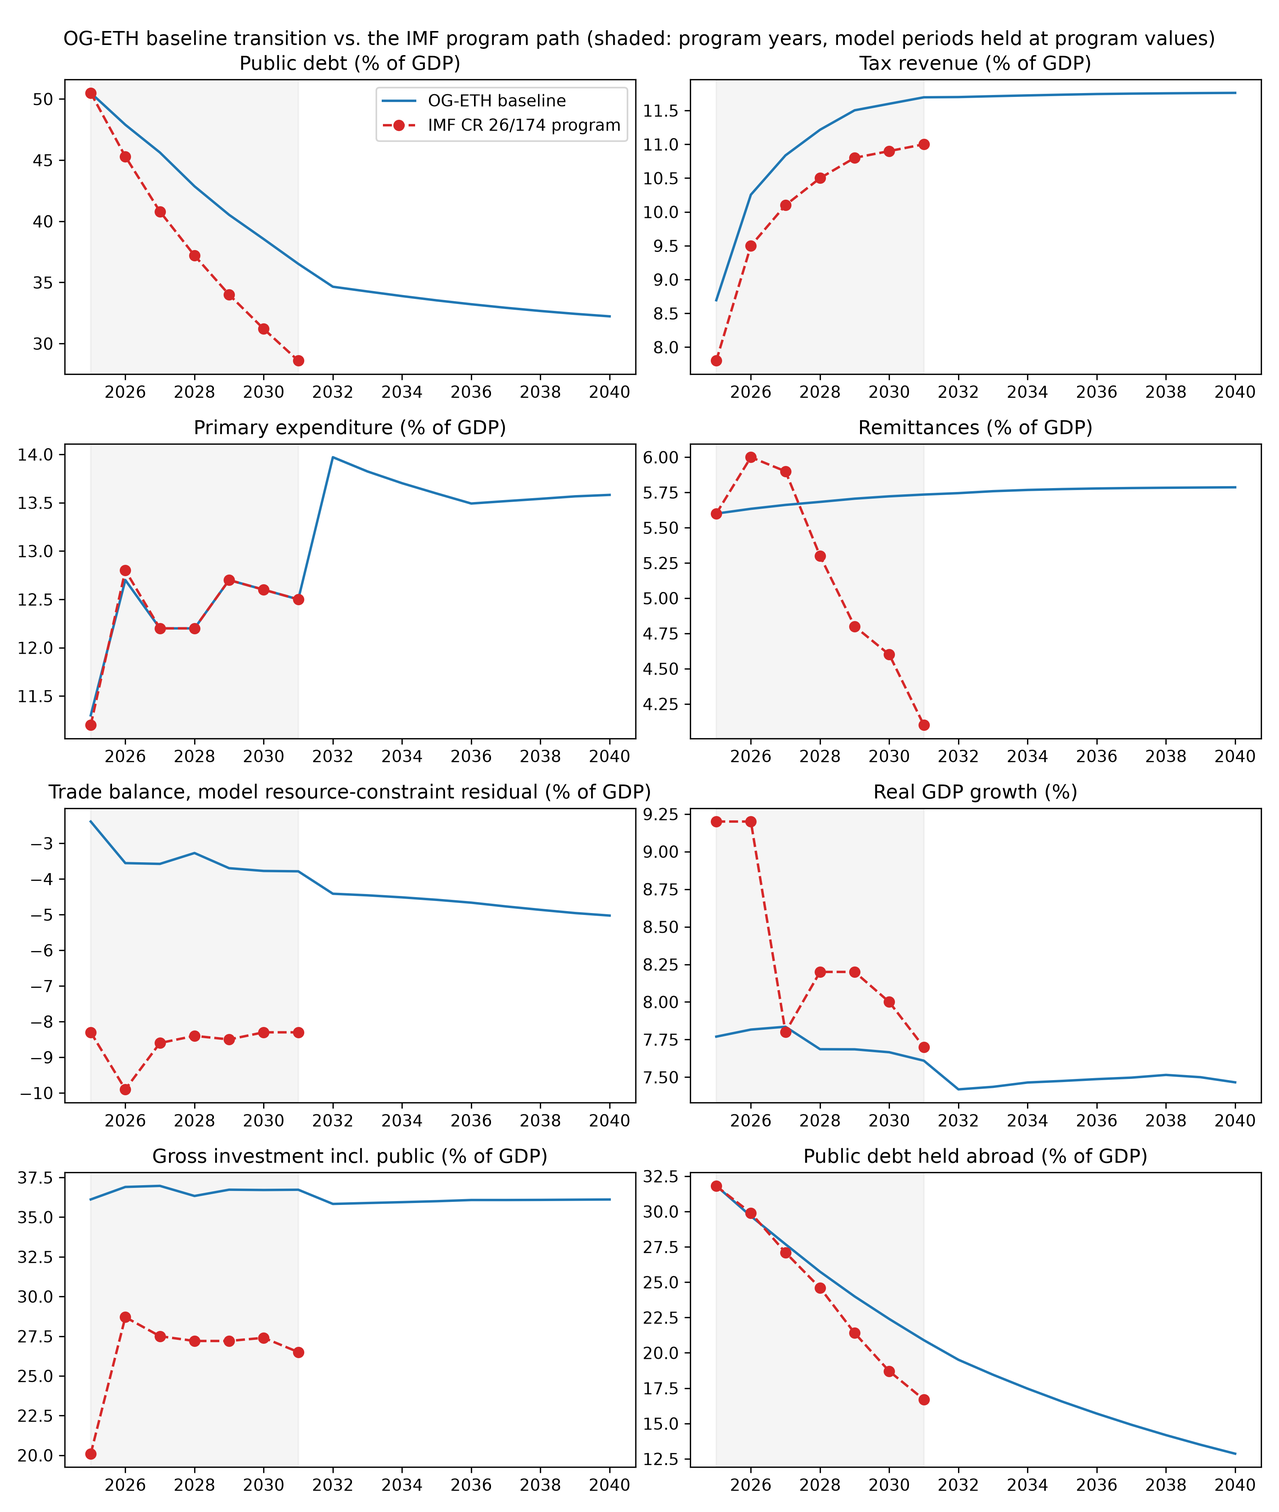
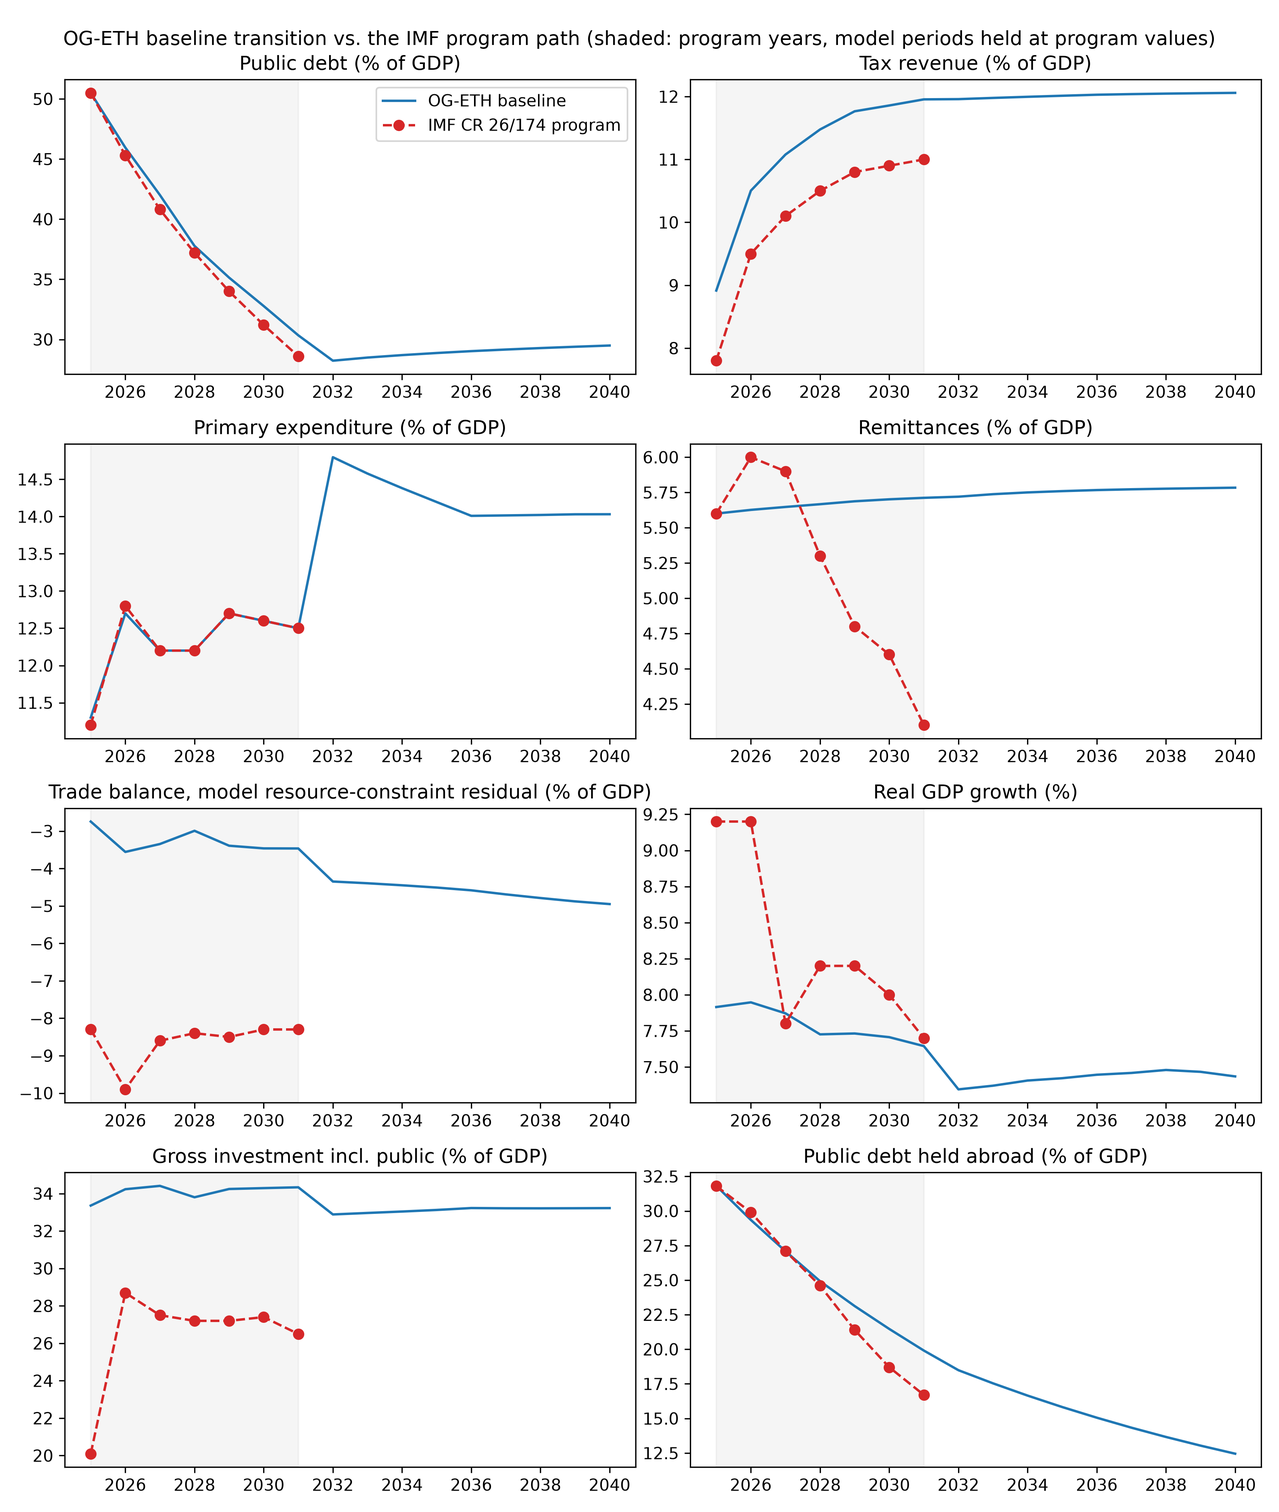
Refresh the validation table and program comparison to the final calibrated run

diff --git a/docs/book/content/calibration/macro.md b/docs/book/content/calibration/macro.md
@@ -150,29 +150,30 @@ Most of the parameters on this page are only weakly identified from the data on 
 
 | Steady-state moment | OG-ETH baseline | Ethiopia data | Data source |
 |:---|:---:|:---:|:---|
-| Government debt $D/Y$ | 0.30 | 0.30 (long-run target); 0.505 (FY2024/25); 0.286 (FY2030/31) | IMF CR 26/174, Table 1 |
-| Foreign-held debt share $D_f/D$ | 0.15 | 0.63 (FY2024/25), falling to 0.58 by FY2030/31 | IMF CR 26/174, Table 1 |
-| Real effective rate on public debt $r_{gov}$ | 0.020 | negative through FY2030/31 (5.2% nominal on the stock vs 8.6% deflator); ~0.8% on new external commitments | IMF CR 26/174; MoF Bulletin 56 |
-| Tax revenue $T/Y$ | 0.118 | 0.110 (FY2030/31 program); 0.078 (FY2024/25) | IMF CR 26/174, Table 2b |
+| Government debt $D/Y$ | 0.30; path 50.5 → 30.3% by FY2030/31 | 0.30 (long-run target); 50.5 → 28.6% (FY2024/25 → FY2030/31) | IMF CR 26/174, Table 1 |
+| Foreign-held debt share $D_f/D$ | 0.15; external debt 31.8 → 19.9% of GDP by FY2030/31 | 0.63 (FY2024/25); external debt 31.8 → 16.7% | IMF CR 26/174, Table 1 |
+| Real effective rate on public debt $r_{gov}$ | −3.2 to −1.2% through FY2030/31; 2.0% long run | negative through FY2030/31 (5.2% nominal on the stock vs 8.6% deflator); ~0.8% on new external commitments | IMF CR 26/174; MoF Bulletin 56 |
+| Tax revenue $T/Y$ | 0.121; path 8.9 → 12.0% | 0.110 (FY2030/31 program); 7.8 → 11.0% | IMF CR 26/174, Table 2b |
 | Personal income tax / $Y$ | 0.014 | 0.014 (FY2024/25) | IMF SIP 2025/108 |
-| Corporate income tax / $Y$ | 0.029 | 0.017 (FY2024/25); program allocates a third of revenue gains here | IMF SIP 2025/108; assumption |
-| Consumption taxes / $Y$ | 0.058 | 0.039 (FY2024/25) plus two thirds of the program's revenue gains | IMF CR 26/174; assumption |
-| Government consumption $G/Y$ | 0.070 (closure) | 0.059 (FY2030/31, recurrent net of interest and cash transfers) | IMF CR 26/174, Table 2b |
+| Corporate income tax / $Y$ | 0.029 | 0.017 (FY2024/25); a third of the program's revenue gains allocated here | IMF SIP 2025/108; assumption |
+| Consumption taxes / $Y$ | 0.060 | 0.039 (FY2024/25) plus two thirds of the program's revenue gains | IMF CR 26/174; assumption |
+| Government consumption $G/Y$ | 0.073 (closure) | 0.059 (FY2030/31, recurrent net of interest and cash transfers) | IMF CR 26/174, Table 2b |
 | Cash transfers $TR/Y$ | 0.015 | 0.015 (FY2026/27 onward) | IMF CR 26/174 |
 | Public investment $I_g/Y$ | 0.051 | 0.051 (FY2030/31) | IMF CR 26/174, Table 2b |
 | Remittances $RM/Y$ | 0.056 | 0.056 (FY2024/25); program projects 0.041 by FY2030/31 | IMF CR 26/174, Table 4b |
-| Foreign-owned capital $K_f/Y$ | 0.37 | ~0.24 (FDI stock) | UNCTAD / WB |
-| Foreign-owned capital share $K_f/K$ | 0.14 | low (near-closed account) | Chinn-Ito; BoP IIP |
-| Capital-output $K/Y$ | 2.6 | ~2.2 | Penn World Table |
-| Household wealth $B/Y$ | 2.5 (steady state); 2.08 (initial) | 2.15 (K/Y less FDI stock plus domestic debt) | PWT, UNCTAD, IMF |
-| Total investment $(I+I_g)/Y$ | 0.36 | 0.20 (FY2024/25); 0.27 (program, FY2030/31) | IMF CR 26/174, Table 1 |
-| Private consumption $C/Y$ | 0.63 | 0.81 (FY2024/25; BGP ~0.65–0.70) | WDI `NE.CON.PRVT.ZS` |
-| Trade balance $NX/Y$ | −0.058 | −0.083 (goods and services, FY2024/25 and FY2030/31) | IMF CR 26/174, Table 4b |
-| Real return on capital $r$ | 0.058 | high (capital-scarce) | model-implied MPK |
+| Foreign-owned capital $K_f/Y$ | 0.20 (0.22 initially) | ~0.24 (FDI stock) | UNCTAD / WB |
+| Foreign-owned capital share $K_f/K$ | 0.08 | low (near-closed account) | Chinn-Ito; BoP IIP |
+| Capital-output $K/Y$ | 2.4 (2.1 initially) | ~2.2 | Penn World Table |
+| Household wealth $B/Y$ | 2.4 (steady state); 2.08 (initial) | 2.15 (K/Y less FDI stock plus domestic debt) | PWT, UNCTAD, IMF |
+| Total investment $(I+I_g)/Y$ | 0.33 | 0.20 (FY2024/25); 0.27 (program, FY2030/31) | IMF CR 26/174, Table 1 |
+| Private consumption $C/Y$ | 0.65 | 0.81 (FY2024/25; BGP ~0.65–0.70) | WDI `NE.CON.PRVT.ZS` |
+| Trade balance $NX/Y$ | −0.059 (−0.03 to −0.035 along the program) | −0.083 (goods and services, FY2024/25 and FY2030/31) | IMF CR 26/174, Table 4b |
+| Real return on capital $r$ | 0.068 | high (capital-scarce); FDI return in Africa 6.3% | model-implied MPK; UNCTAD |
+| Real GDP growth | 7.9 → 7.6% over the program | 9.2 → 7.7% | IMF CR 26/174, Table 1 |
 
-**What matches.**  The fiscal block is now internally consistent and on the data: revenue by instrument, the spending ratios, transfers, public investment, remittances and the debt target all sit on their sources, and the transition ({numref}`CalibVsProgram`) reproduces the program's primary expenditure exactly, its tax revenue to within a point of GDP (the model's FY2024/25 base is 0.9 points above the IMF's tax line, and follows the same increments), its external debt ratio to within a few points, and real growth of 7.6–7.8 percent against the program's 7.7–9.2.  The remittance share holds at 5.6–5.7 percent along the path.
+**What matches.**  The fiscal block is internally consistent and on the data.  The transition ({numref}`CalibVsProgram`) reproduces the program's primary expenditure exactly, its tax revenue to within a point of GDP (the model's FY2024/25 base is a point above the IMF's tax line and follows the same increments), its external debt ratio to within three points, and — with the sovereign rate on the program-implied negative real rates — **its debt ratio to within two points of GDP in every program year**, landing at 30.3 percent in FY2030/31 against 28.6, and at the 30 percent target thereafter without a jump.  Real growth runs 7.6–7.9 percent against the program's 7.7–9.2; the remittance share holds at 5.6–5.7 percent.  The capital block sits on its anchors: the capital-output ratio starts at 2.1 and settles at 2.4 against the Penn World Table's 2.2, the foreign-owned capital stock at 0.20–0.22 of GDP against the 0.24 FDI stock, and household wealth starts at the 2.15 the data imply.
 
-**What does not, and why.**  Three gaps remain, each understood.  *Debt* falls to 36.5 rather than 28.6 percent of GDP by FY2030/31 and reaches the 30 percent target only around 2055: OG-Core floors the sovereign rate at zero, so the negative real effective rate through which inflation and concessional terms erode Ethiopia's debt cannot be represented, and with a primary balance near zero the ratio can fall only as fast as real growth dilutes it.  *Capital* is still too abundant: with $\beta$ lowered to 0.92 the capital-output ratio falls from 2.9 to 2.6 and total investment from 41 to 36 percent of GDP, but the Penn World Table's 2.2 and the program's 27 percent are not reached because foreign capital enters at the world rate as domestic saving falls — the foreign-owned share of capital rises to 14 percent, above what Ethiopia's investment position supports.  The over-accumulation of capital is a known trait of the OG-Core saving block across the country models, and pushing patience further would trade one miss for another.  *The trade deficit* is 3–4 percent of GDP along the transition and 5.8 percent in the steady state against 8.3 percent in the data, the mirror image of the same fact: the data's deficit is financed by FDI inflows of about 3 percent of GDP a year on top of remittances and grants, while the model's foreign capital inflow is smaller, and part of the remittance and grant inflow is saved rather than spent on imports.  The remaining rows are where they were: the model's long-run consumption share sits between Ethiopia's crisis-depressed current value and a balanced-growth level, and the foreign-held debt share converges from the initial 0.63 toward $\zeta_D$.
+**What does not, and why.**  Two gaps remain.  *Investment* is 33–34 percent of GDP against the program's 27: in the steady state investment must replace depreciation and equip growth, $(g+\delta)K/Y \approx 0.13 \times 2.4 = 0.31$, so with the capital-output ratio already at the data the remaining difference is the model's 8 percent growth and 5 percent depreciation applied to that stock — the data's 27 percent at a similar capital-output ratio implies a lower effective depreciation or slower capital deepening than a balanced growth path allows.  *The trade deficit* is 3–3.5 percent of GDP along the program and 5.9 percent in the steady state against 8.3 percent in the data.  The model's deficit is what remittances, grants and foreign capital inflows finance net of factor payments abroad; the data's is also financed by about 3 percent of GDP a year of FDI and by official borrowing, and Ethiopia's foreign capital inflow in the model is smaller because the foreign-owned stock is already near its long-run level.  Neither gap is a parameter away: they follow from the single-capital-good, balanced-growth structure of the model, and are reported here as its limits rather than calibrated around.  The remaining rows are where they were: the long-run consumption share sits between Ethiopia's crisis-depressed current value and a balanced-growth level, and the foreign-held debt share converges from the initial 0.63 toward $\zeta_D$.
 
 (SecLWI_footnotes)=
 ## Footnotes

diff --git a/CHANGELOG.md b/CHANGELOG.md
@@ -16,7 +16,7 @@ and this project adheres to [Semantic Versioning](https://semver.org/spec/v2.0.0
 * Froze the `r_gov_*` parameters in the live `update_from_api` path (they are no longer returned by `get_macro_params`): the committed `r_gov_shift` is the re-centered value, and returning the raw Li-Magud-Werner shift would silently un-center the premium and move the steady state. The Li-Magud-Werner derivation plus the re-centering arithmetic is preserved as the reproducible `macro_params.estimate_r_gov` helper.
 * Retuned `initial_guess_r_SS` (0.0648 → 0.093) to the refreshed steady state.
 * Calibrated the transition path to the IMF program (Country Report 26/174, fifth ECF review, Tables 1, 2b and 4b) instead of holding FY2024/25 spending ratios fixed for twenty years. Previously the baseline ran a primary deficit of 5.6–6.1 percent of GDP for its first two decades (government consumption 5.8, transfers 4.0 and public investment 5.0 percent of GDP against 8.7 percent of revenue), debt climbed from 50 to 84 percent of GDP by year 10, and the closure rule later pushed government consumption below zero. The fiscal block now follows the program for FY2024/25–FY2030/31 (model periods 0–6) and holds the last value: government consumption (`alpha_G`, recurrent spending net of interest and cash transfers) 4.3 → 5.9 percent of GDP, cash transfers (`alpha_T`: fuel and fertilizer subsidies, the safety net, public pensions) 2.0 → 1.5 percent, public investment (`alpha_I`, capital expenditure) 5.0 → 5.1 percent, grants (`alpha_FA`, now a path) 1.7 → 0.3 percent, and revenue rising with the program from 9.2 to 12.3 percent of GDP through the consumption-tax rate (`tau_c` 0.060 → 0.092) and CIT collections (`adjustment_factor_for_cit_receipts` 0.327 → 0.525), two thirds and one third of the gain. `initial_debt_ratio` is 0.505 (the program's FY2024/25 figure) and the closure rule starts after the program (`tG1` 20 → 7). Reproducing the program's debt decline with primary balances near zero requires a negative real effective interest rate on the legacy debt — the counterpart of inflation and concessional terms eroding it — so `r_gov_shift` is a path that puts the sovereign rate on the program-implied real rates (−3.5 to −1.4 percent) and converges over four periods to a long-run 2 percent (the previous 4.5 percent long-run rate exceeded even the program's FY2030/31 nominal effective rate of 5.2 percent). OG-Core clips the sovereign rate at `r_gov_floor` (a parameter since PSLmodels/OG-Core#1203, hard-coded at zero before), and the example lowers the floor to −10 percent where the installed OG-Core has the parameter so the negative rates bind. The centering constant of the debt-elastic premium is now subtracted from the shift, as OG-Core's formula requires (`r_gov_DY d + r_gov_DY2 d² = r_gov_DY2 (d − D̄)² − r_gov_DY2 D̄²`); the previous calibration added it, which put the long-run sovereign rate about 0.7 percentage points below the level it documented. On an OG-Core without the parameter the rate sits at zero through the program and the debt ratio declines more slowly than the program's — to about 36 rather than 29 percent of GDP by FY2030/31 — reaching the 30 percent target through the closure rule afterwards; the gap is the inflation-tax channel a real model with a non-negative rate leaves out.
-* Calibrated the capital block to Ethiopia's capital-output ratio and foreign-owned capital stock. The inherited US patience (`beta_annual` 0.96) put the steady-state capital-output ratio near 2.9 and gross investment above 40 percent of GDP, against the Penn World Table's 2.2 and the program's 20–28 percent; and the 4 percent world rate — which in OG-Core fixes the capital stock foreign investors are willing to hold, `K_f = zeta_K (K_open − K_d)` — put the foreign-owned capital stock at 0.37 of GDP against a ~0.24 FDI stock. Two levers, both set to data: `beta_annual` 0.96 → 0.90 (household wealth near 2.2 times GDP, the same magnitude as the initial-wealth anchor) and `world_int_rate_annual` 0.04 → 0.063, UNCTAD's measured return on inward FDI in Africa (World Investment Report 2018). Patience alone (0.92 with the 4 percent world rate) had taken the capital-output ratio only to 2.6 while pushing the foreign-owned stock up; `households.md` and the world-rate section of `macro.md` document the arithmetic.
+* Calibrated the capital block to Ethiopia's capital-output ratio and foreign-owned capital stock. The inherited US patience (`beta_annual` 0.96) put the steady-state capital-output ratio near 2.9 and gross investment above 40 percent of GDP, against the Penn World Table's 2.2 and the program's 20–28 percent; and the 4 percent world rate — which in OG-Core fixes the capital stock foreign investors are willing to hold, `K_f = zeta_K (K_open − K_d)` — put the foreign-owned capital stock at 0.37 of GDP against a ~0.24 FDI stock. Two levers, both set to data: `beta_annual` 0.96 → 0.90 (household wealth near 2.4 times GDP, close to the 2.15 initial-wealth anchor) and `world_int_rate_annual` 0.04 → 0.063, UNCTAD's measured return on inward FDI in Africa (World Investment Report 2018). The steady state now has a capital-output ratio of 2.4 (2.1 at the start of the transition), a foreign-owned capital stock of 0.20 of GDP, a return on capital of 6.8 percent and investment of 33 percent of GDP. Patience alone (0.92 with the 4 percent world rate) had taken the capital-output ratio only to 2.6 while pushing the foreign-owned stock up; `households.md` and the world-rate section of `macro.md` document the arithmetic.
 * Anchored initial household wealth to the data where the installed OG-Core supports it (PSLmodels/OG-Core#1189, `initial_wealth_ratio`): B(0)/Y = 2.15, the Penn World Table capital-output ratio (2.2) less the foreign-owned capital stock (0.24) plus domestically held public debt (0.19). The example applies it when available and otherwise starts from steady-state wealth, as before; the value moves into the packaged JSON once that OG-Core release is the floor.
 * Completed the remittance calibration, following OG-PHL's approach (EAPD-DRB/OG-PHL#85). The level is re-anchored to the observed value: the IMF fifth ECF review (Country Report 26/174, Table 4a) records FY2024/25 net private transfers of USD 7,037 million, 5.6 percent of GDP, so `alpha_RM_1 = alpha_RM_T = 0.056` is now the measured FY2024/25 figure rather than a program anchor (the World Bank WDI series puts the same inflow at USD 7.14 billion). `g_RM` is now a path derived from the packaged `g_n` (`g_RM_t = exp(g_y)(1 + g_n_{t-1}) − 1`) so remittances grow with trend GDP and keep a constant share on the balanced growth path: before `tG1` OG-Core compounds detrended remittances by `(1 + g_RM)/(exp(g_y)(1 + g_n))` regardless of that period's output, and with the shipped scalar `g_RM = 0` Ethiopia's growth rates shrank them relative to trend by about 7 percent a year — from 5.6 to about 1.5 percent of GDP over the first twenty periods — before OG-Core blended them back. Along the baseline transition RM/Y now holds at 5.6–5.7 percent of GDP. `eta_RM` is no longer population-proportional: the World Bank's 2010 national remittance survey shows recipients concentrated in better-off, urban households (recipients' household income 9 percent below ETB 1,000 a month, 47 percent at ETB 1,000–3,500, 37 percent above; 35 percent urban against 16 percent of the population), which maps to remittance value shares by income quintile of 4.8, 4.8, 25.3, 25.3 and 39.8 percent, spread per capita across ages within each lifetime-income group. Both derived objects are rebuilt with the demographics by `update_baseline.py`, and `tests/test_remittances.py` pins the level to its source and asserts the share stays flat along the whole transition.
 * Require `ogcore>=0.20.0` (the current OG-Core release), which carries the fixes this calibration depends on: 0.19.1's corrected payroll-tax calculation and bequest split under income-group demographics, and 0.19.2's removal of a payroll-revenue double count that made any model with a nonzero `tau_payroll` fail the steady-state resource constraint. With `tau_payroll = 0.03` the baseline steady state now solves with a resource-constraint error of 2e-14.

diff --git a/docs/book/content/calibration/households.md b/docs/book/content/calibration/households.md
@@ -13,4 +13,4 @@ The default value for the intertemporal elasticity of substitution, $\sigma$, is
 
 ### Rate of time preference
 
-The rate of time preference, $\beta$, is calibrated to Ethiopia's capital-output ratio rather than borrowed from the US literature.  With the US value of $\beta = 0.96$ ({cite}`Carroll:2009`), which the OG-Core country models inherit by default, the OG-ETH steady state has a capital-output ratio near 2.9 and gross investment above 40 percent of GDP, against a Penn World Table capital-output ratio of about 2.2 and investment of 20–28 percent of GDP in the IMF program ({cite}`IMFCR26174:2026`, Table 1).  In a closed economy the steady-state return on capital is close to $1/\beta - 1$ and the capital-output ratio is $K/Y = \gamma/(r + \delta)$, so matching $K/Y \approx 2.2$ with the calibrated capital share $\gamma = 0.30$ and depreciation of 5 percent would require $r \approx 8.6$ percent and hence $\beta \approx 0.92$.  In the open economy the adjustment through patience alone is partial, because foreign capital enters as domestic saving falls: at $\beta = 0.92$ with the 4 percent world rate the return settled near 5.8 percent, the capital-output ratio at 2.6, gross investment at 36 percent of GDP and the foreign-owned capital stock at 0.37 of GDP, half again the FDI stock in the data.  The capital block therefore has two levers, and both are set to data: **$\beta = 0.90$** (annual, all lifetime-income groups), which puts household wealth near 2.2 times GDP — the same magnitude as the initial-wealth anchor built from the Penn World Table and the investment position in {ref}`Chap_MacroCalib` — and a **world rate of 6.3 percent**, the measured return on inward FDI in Africa, which brings the foreign-owned capital stock to the FDI stock.  Together they put the capital-output ratio at about 2.2, gross investment near 28 percent of GDP (the program's 27) and the return on capital around 7 percent.  A high return on capital is the flip side of Ethiopia's scarce capital, and $\beta = 0.90$ is at the low end of the range used in low-income-country OLG calibrations; the steady-state validation table in {ref}`Chap_MacroCalib` reports what the solved model delivers.
+The rate of time preference, $\beta$, is calibrated to Ethiopia's capital-output ratio rather than borrowed from the US literature.  With the US value of $\beta = 0.96$ ({cite}`Carroll:2009`), which the OG-Core country models inherit by default, the OG-ETH steady state has a capital-output ratio near 2.9 and gross investment above 40 percent of GDP, against a Penn World Table capital-output ratio of about 2.2 and investment of 20–28 percent of GDP in the IMF program ({cite}`IMFCR26174:2026`, Table 1).  In a closed economy the steady-state return on capital is close to $1/\beta - 1$ and the capital-output ratio is $K/Y = \gamma/(r + \delta)$, so matching $K/Y \approx 2.2$ with the calibrated capital share $\gamma = 0.30$ and depreciation of 5 percent would require $r \approx 8.6$ percent and hence $\beta \approx 0.92$.  In the open economy the adjustment through patience alone is partial, because foreign capital enters as domestic saving falls: at $\beta = 0.92$ with the 4 percent world rate the return settled near 5.8 percent, the capital-output ratio at 2.6, gross investment at 36 percent of GDP and the foreign-owned capital stock at 0.37 of GDP, half again the FDI stock in the data.  The capital block therefore has two levers, and both are set to data: **$\beta = 0.90$** (annual, all lifetime-income groups), which puts household wealth near 2.2 times GDP — the same magnitude as the initial-wealth anchor built from the Penn World Table and the investment position in {ref}`Chap_MacroCalib` — and a **world rate of 6.3 percent**, the measured return on inward FDI in Africa, which brings the foreign-owned capital stock to the FDI stock.  Together they put the capital-output ratio at 2.1 at the start of the transition and 2.4 in the steady state, the foreign-owned capital stock at 0.20 of GDP, the return on capital at 6.8 percent, and gross investment at 33 percent of GDP — still above the program's 27 percent, because a balanced growth path with 8 percent growth and 5 percent depreciation needs $(g+\delta)K/Y \approx 0.31$ of GDP in investment at that capital stock.  A high return on capital is the flip side of Ethiopia's scarce capital, and $\beta = 0.90$ is at the low end of the range used in low-income-country OLG calibrations; the steady-state validation table in {ref}`Chap_MacroCalib` reports what the solved model delivers.
